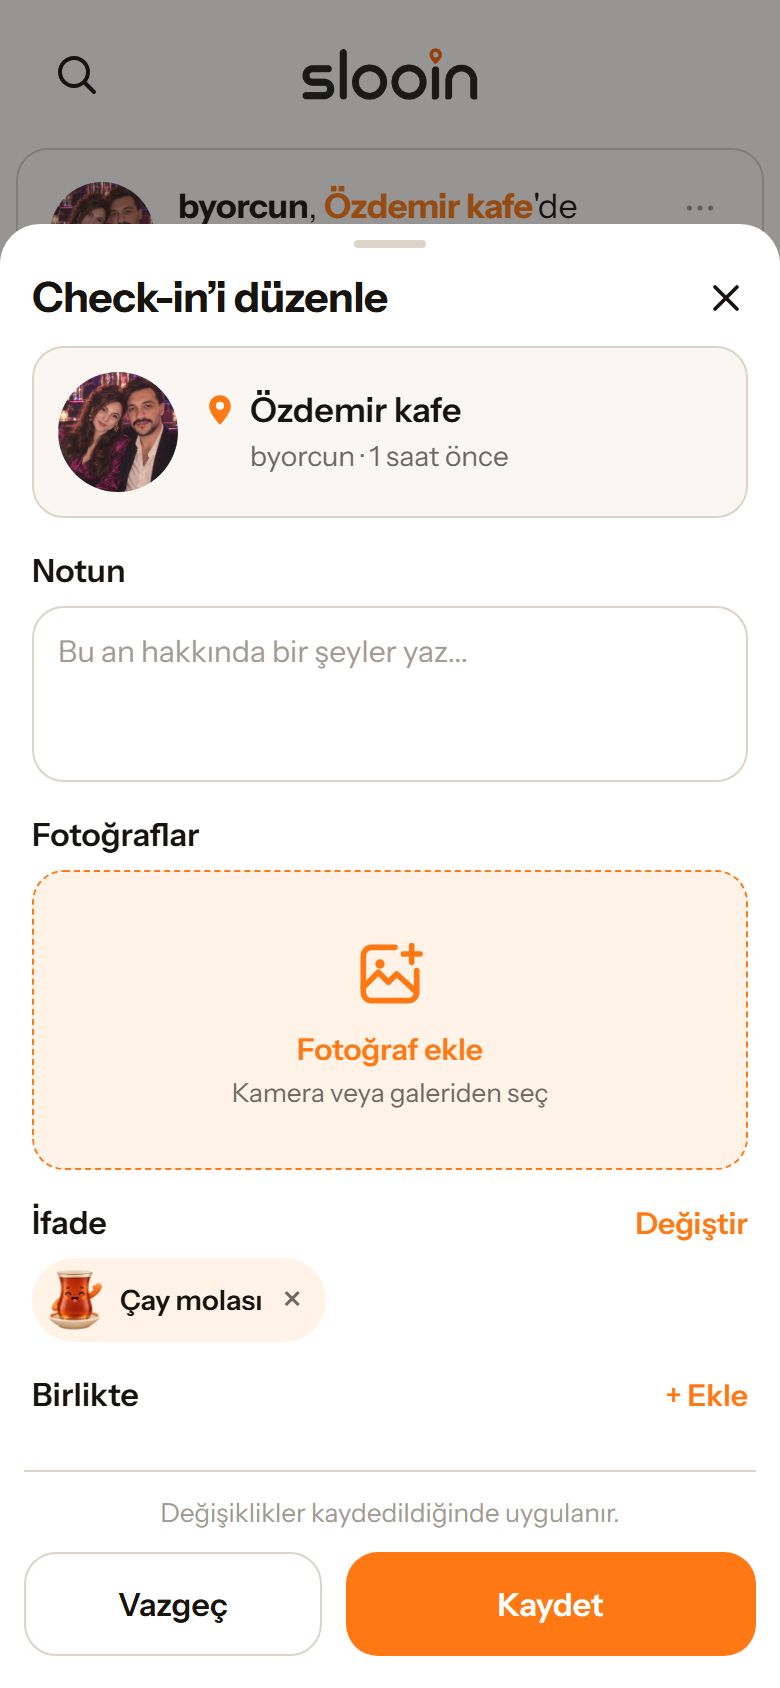
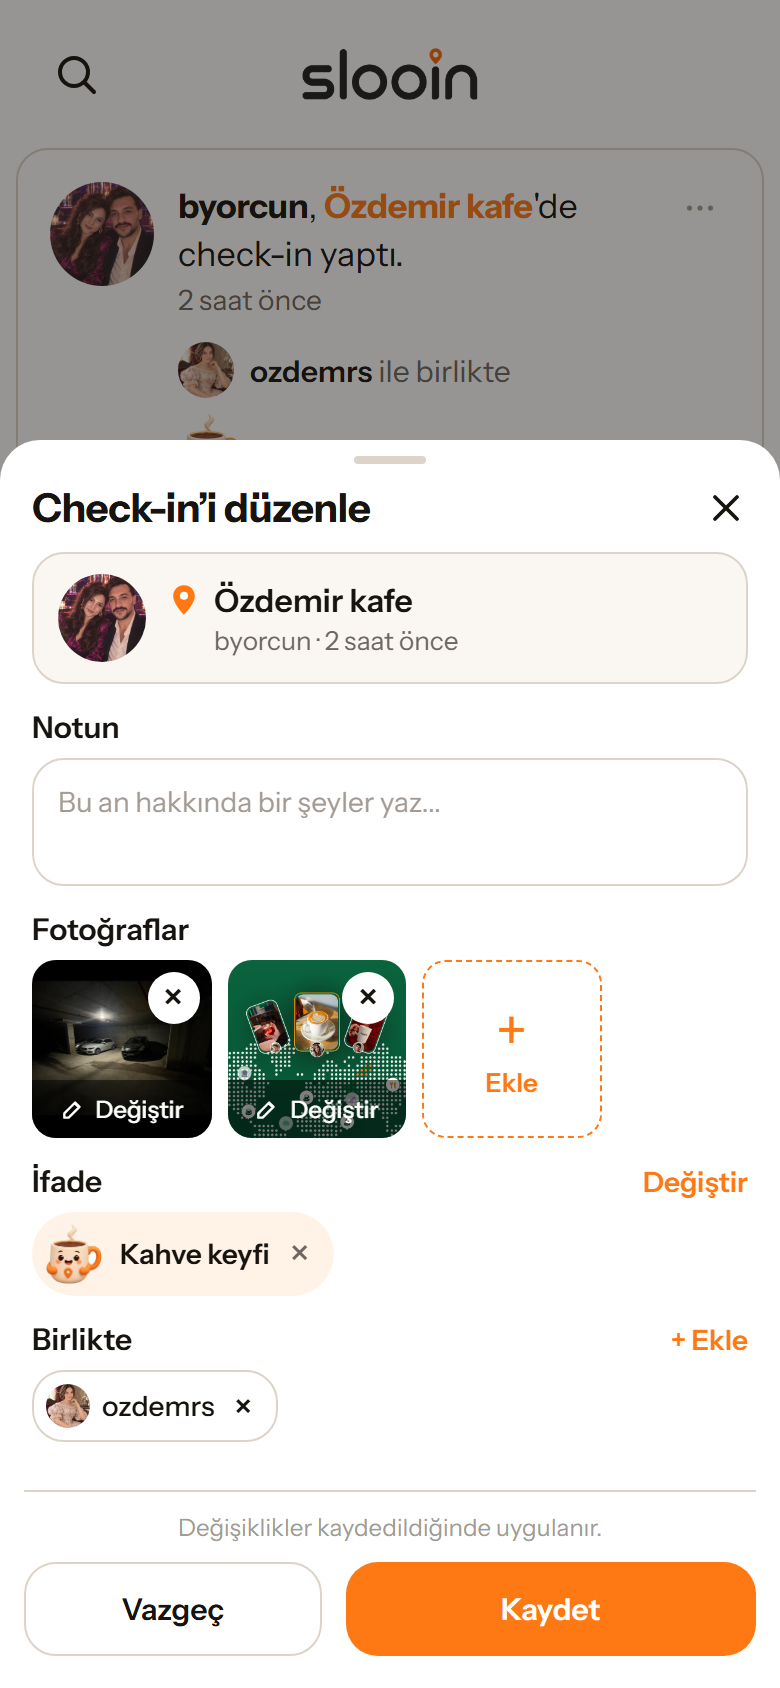
style(duzenle): secenek A - sikilastirilmis olculer, fotograf izgarasi 4 sutun
Claude-Session: https://claude.ai/code/session_016ctDoSwgG5vxXUSRypA7G5

diff --git a/tasarim/checkin-duzenle-daralt/secenekler.html b/tasarim/checkin-duzenle-daralt/secenekler.html
@@ -1,0 +1,151 @@
+<!doctype html>
+<html lang="tr"><head><meta charset="utf-8">
+<title>Check-in'i düzenle – daraltma seçenekleri</title>
+<link href="https://fonts.googleapis.com/css2?family=Instrument+Sans:wght@400;500;600;700&display=swap" rel="stylesheet">
+<style>
+  :root{--tur:#FE7813;--metin:#17130F;--ikincil:#6E6660;--soluk:#A39B93;--cizgi:#DCD3C9;--sef:#FFF3E8;--krem:#FAF7F3}
+  *{box-sizing:border-box}
+  body{margin:0;background:#ECE8E2;font-family:"Instrument Sans",system-ui,sans-serif;color:var(--metin);padding:28px 24px}
+  h1{font-size:22px;margin:0 0 6px}
+  .alt{color:var(--ikincil);font-size:14px;margin:0 0 22px}
+  .sira{display:flex;gap:26px;align-items:flex-start}
+  .kolon{width:390px;flex:none}
+  .etiketK{font-size:13px;font-weight:600;letter-spacing:.06em;text-transform:uppercase;color:var(--ikincil);margin:0 0 4px}
+  .aciklama{font-size:13px;color:var(--ikincil);margin:0 0 10px;min-height:54px;line-height:1.35}
+  .tel{width:390px;height:844px;background:#9a9691;border-radius:44px;position:relative;overflow:hidden;box-shadow:0 20px 40px rgba(0,0,0,.18)}
+  .sayfa{position:absolute;left:0;right:0;bottom:0;background:#fff;border-radius:22px 22px 0 0;padding:8px 16px 26px}
+  .tut{width:36px;height:4px;border-radius:2px;background:var(--cizgi);margin:0 auto 12px}
+  .bas{display:flex;justify-content:space-between;align-items:center;margin:0 4px}
+  .bas h2{font-size:22px;letter-spacing:-.3px;margin:0}
+  .x{font-size:22px;line-height:1}
+  .kart{display:flex;align-items:center;gap:14px;border:1px solid var(--cizgi);background:var(--krem);border-radius:16px;padding:14px;margin:14px 0 18px}
+  .av{width:60px;height:60px;border-radius:50%;background:linear-gradient(135deg,#7a2b5a,#2c1633);flex:none}
+  .av.k{width:34px;height:34px}
+  .mad{font-weight:700;font-size:17px;display:flex;gap:6px;align-items:center}
+  .pin{width:14px;height:14px;background:var(--tur);border-radius:50% 50% 50% 0;transform:rotate(-45deg);display:inline-block}
+  .malt{color:var(--ikincil);font-size:14px;margin-left:20px;margin-top:3px}
+  .lbl{font-weight:700;font-size:16px;margin:0 0 8px}
+  .not{border:1px solid var(--cizgi);border-radius:16px;padding:14px;color:var(--soluk);font-size:15px;margin-bottom:18px}
+  .izg{display:flex;gap:8px;margin-bottom:6px}
+  .kare{border-radius:12px;background:#333 center/cover;position:relative;overflow:hidden;flex:none}
+  .kare.a{background-image:linear-gradient(#111,#2a2a2a)}
+  .kare.b{background-image:linear-gradient(135deg,#0f5f4f,#1f8a6f)}
+  .kare .xs{position:absolute;top:6px;right:6px;width:22px;height:22px;border-radius:50%;background:#fff;color:#000;font-size:15px;line-height:22px;text-align:center}
+  .kare .dg{position:absolute;left:0;right:0;bottom:0;background:rgba(0,0,0,.5);color:#fff;font-size:12px;text-align:center;padding:5px 0}
+  .kare.ekle{border:1.5px dashed var(--tur);background:#fff;display:flex;flex-direction:column;align-items:center;justify-content:center;color:var(--tur);font-weight:700;font-size:13px}
+  .kare.ekle b{font-size:26px;font-weight:400;line-height:1}
+  .satir{display:flex;justify-content:space-between;align-items:center;margin-top:18px;margin-bottom:8px}
+  .link{color:var(--tur);font-weight:700;font-size:15px}
+  .cip{display:inline-flex;align-items:center;gap:8px;border:1px solid var(--cizgi);border-radius:16px;padding:8px 14px 8px 8px;font-weight:500;font-size:15px}
+  .cip.sef{background:var(--sef);border-color:transparent}
+  .cip .i{width:26px;height:26px;border-radius:50%;background:#e9c9a4}
+  .cip .k{opacity:.7;margin-left:4px}
+  .dip{border-top:1px solid var(--cizgi);margin-top:16px;padding-top:12px}
+  .dipnot{text-align:center;color:var(--soluk);font-size:13px;margin-bottom:12px}
+  .dug{display:flex;gap:14px}
+  .dug div{flex:1;border-radius:16px;text-align:center;padding:15px 0;font-weight:700;font-size:16px;border:1px solid var(--cizgi)}
+  .dug .k{flex:1.4;background:var(--tur);color:#fff;border-color:var(--tur)}
+  /* SIKI varyantlar */
+  .s .sayfa{padding:8px 16px 22px}
+  .s .tut{margin-bottom:10px}
+  .s .bas h2{font-size:20px}
+  .s .kart{padding:10px 12px;gap:10px;margin:10px 0 12px}
+  .s .mad{font-size:16px}
+  .s .malt{font-size:13px;margin-top:1px}
+  .s .lbl{font-size:15px;margin-bottom:6px}
+  .s .not{padding:12px;margin-bottom:12px;font-size:14px}
+  .s .satir{margin-top:12px;margin-bottom:6px}
+  .s .dip{margin-top:12px;padding-top:10px}
+  .s .dipnot{margin-bottom:10px;font-size:12px}
+  .s .dug div{padding:13px 0;font-size:15px}
+  .s .cip{padding:6px 12px 6px 6px;font-size:14px}
+  .s .cip .i{width:22px;height:22px}
+  /* tek satir mekan */
+  .mek1{display:flex;align-items:center;gap:10px;margin:10px 4px 12px;color:var(--ikincil);font-size:14px}
+  .mek1 b{color:var(--metin);font-size:15px}
+  /* ic etiket */
+  .icnot{position:relative}
+  .icnot .lbl{position:absolute;left:12px;top:8px;font-size:12px;color:var(--ikincil);margin:0;font-weight:600;text-transform:uppercase;letter-spacing:.05em}
+  .icnot .not{padding-top:28px}
+  .yanyana{display:flex;gap:10px;align-items:flex-start;margin-top:10px}
+  .yanyana>div{flex:1}
+  .yanyana .satir{margin-top:0}
+  .olcu{position:absolute;right:10px;top:12px;background:rgba(0,0,0,.55);color:#fff;font-size:11px;padding:3px 7px;border-radius:999px}
+</style></head><body>
+<h1>"Check-in'i düzenle" – daha dar sayfa için üç seçenek</h1>
+<p class="alt">Aynı içerik, aynı 390 px genişlik. Gri alan = sayfanın altında görünen arka plan (sayfa ne kadar kısaysa o kadar çok).</p>
+<div class="sira">
+
+<div class="kolon">
+  <p class="etiketK">Şimdiki hâli</p>
+  <p class="aciklama">Sayfa ekranın neredeyse tamamını kaplıyor (~760 px). Mekân kartı 60'lık avatarla yüksek, 3 sütun büyük kareler, her bölüm ayrı satır.</p>
+  <div class="tel"><div class="sayfa"><span class="olcu">~760 px</span>
+    <div class="tut"></div>
+    <div class="bas"><h2>Check-in’i düzenle</h2><span class="x">✕</span></div>
+    <div class="kart"><div class="av"></div><div><div class="mad"><span class="pin"></span>Özdemir kafe</div><div class="malt">byorcun · 2 saat önce</div></div></div>
+    <p class="lbl">Notun</p><div class="not" style="height:88px">Bu an hakkında bir şeyler yaz…</div>
+    <p class="lbl">Fotoğraflar</p>
+    <div class="izg"><div class="kare a" style="width:114px;height:114px"><span class="xs">✕</span><span class="dg">✎ Değiştir</span></div><div class="kare b" style="width:114px;height:114px"><span class="xs">✕</span><span class="dg">✎ Değiştir</span></div><div class="kare ekle" style="width:114px;height:114px"><b>+</b>Ekle</div></div>
+    <div class="satir"><span class="lbl" style="margin:0">İfade</span><span class="link">Değiştir</span></div>
+    <span class="cip sef"><span class="i"></span>Kahve keyfi<span class="k">✕</span></span>
+    <div class="satir"><span class="lbl" style="margin:0">Birlikte</span><span class="link">+ Ekle</span></div>
+    <span class="cip"><span class="i" style="background:#c9a4a4"></span>ozdemrs<span class="k">✕</span></span>
+    <div class="dip"><div class="dipnot">Değişiklikler kaydedildiğinde uygulanır.</div><div class="dug"><div>Vazgeç</div><div class="k">Kaydet</div></div></div>
+  </div></div>
+</div>
+
+<div class="kolon s">
+  <p class="etiketK">A · Sıkı boşluklar</p>
+  <p class="aciklama">Düzen aynı; dolgular ve yazılar bir kademe küçük, not kutusu 64 px, kareler 4 sütun (84 px). Kazanç ~130 px.</p>
+  <div class="tel"><div class="sayfa"><span class="olcu">~630 px</span>
+    <div class="tut"></div>
+    <div class="bas"><h2>Check-in’i düzenle</h2><span class="x">✕</span></div>
+    <div class="kart"><div class="av" style="width:44px;height:44px"></div><div><div class="mad"><span class="pin"></span>Özdemir kafe</div><div class="malt">byorcun · 2 saat önce</div></div></div>
+    <p class="lbl">Notun</p><div class="not" style="height:64px">Bu an hakkında bir şeyler yaz…</div>
+    <p class="lbl">Fotoğraflar</p>
+    <div class="izg"><div class="kare a" style="width:84px;height:84px"><span class="xs">✕</span><span class="dg">✎</span></div><div class="kare b" style="width:84px;height:84px"><span class="xs">✕</span><span class="dg">✎</span></div><div class="kare ekle" style="width:84px;height:84px"><b>+</b>Ekle</div></div>
+    <div class="satir"><span class="lbl" style="margin:0">İfade</span><span class="link">Değiştir</span></div>
+    <span class="cip sef"><span class="i"></span>Kahve keyfi<span class="k">✕</span></span>
+    <div class="satir"><span class="lbl" style="margin:0">Birlikte</span><span class="link">+ Ekle</span></div>
+    <span class="cip"><span class="i" style="background:#c9a4a4"></span>ozdemrs<span class="k">✕</span></span>
+    <div class="dip"><div class="dipnot">Değişiklikler kaydedildiğinde uygulanır.</div><div class="dug"><div>Vazgeç</div><div class="k">Kaydet</div></div></div>
+  </div></div>
+</div>
+
+<div class="kolon s">
+  <p class="etiketK">B · Tek satır mekân + yan yana bölümler (önerim)</p>
+  <p class="aciklama">Mekân kartı yerine başlığın altında tek satır (küçük avatar · mekân · zaman). İfade ve Birlikte yan yana iki sütun. Kazanç ~230 px.</p>
+  <div class="tel"><div class="sayfa"><span class="olcu">~530 px</span>
+    <div class="tut"></div>
+    <div class="bas"><h2>Check-in’i düzenle</h2><span class="x">✕</span></div>
+    <div class="mek1"><div class="av k"></div><span><b><span class="pin" style="width:11px;height:11px"></span> Özdemir kafe</b> · byorcun · 2 saat önce</span></div>
+    <p class="lbl">Notun</p><div class="not" style="height:64px">Bu an hakkında bir şeyler yaz…</div>
+    <p class="lbl">Fotoğraflar</p>
+    <div class="izg"><div class="kare a" style="width:84px;height:84px"><span class="xs">✕</span><span class="dg">✎</span></div><div class="kare b" style="width:84px;height:84px"><span class="xs">✕</span><span class="dg">✎</span></div><div class="kare ekle" style="width:84px;height:84px"><b>+</b>Ekle</div></div>
+    <div class="yanyana">
+      <div><div class="satir"><span class="lbl" style="margin:0">İfade</span><span class="link">Değiştir</span></div><span class="cip sef"><span class="i"></span>Kahve keyfi<span class="k">✕</span></span></div>
+      <div><div class="satir"><span class="lbl" style="margin:0">Birlikte</span><span class="link">+ Ekle</span></div><span class="cip"><span class="i" style="background:#c9a4a4"></span>ozdemrs<span class="k">✕</span></span></div>
+    </div>
+    <div class="dip"><div class="dipnot">Değişiklikler kaydedildiğinde uygulanır.</div><div class="dug"><div>Vazgeç</div><div class="k">Kaydet</div></div></div>
+  </div></div>
+</div>
+
+<div class="kolon s">
+  <p class="etiketK">C · En sıkı</p>
+  <p class="aciklama">B'ye ek: etiketler kutuların içine küçük başlık olarak girdi, fotoğraf kareleri 72 px (4 sütun + Ekle), dip not kalktı. Kazanç ~290 px; en yoğun görünüm.</p>
+  <div class="tel"><div class="sayfa"><span class="olcu">~470 px</span>
+    <div class="tut"></div>
+    <div class="bas"><h2>Check-in’i düzenle</h2><span class="x">✕</span></div>
+    <div class="mek1"><div class="av k"></div><span><b><span class="pin" style="width:11px;height:11px"></span> Özdemir kafe</b> · byorcun · 2 saat önce</span></div>
+    <div class="icnot"><p class="lbl">Notun</p><div class="not" style="height:72px">Bu an hakkında bir şeyler yaz…</div></div>
+    <div class="izg"><div class="kare a" style="width:72px;height:72px"><span class="xs">✕</span></div><div class="kare b" style="width:72px;height:72px"><span class="xs">✕</span></div><div class="kare ekle" style="width:72px;height:72px"><b>+</b></div></div>
+    <div class="yanyana">
+      <div><div class="satir"><span class="lbl" style="margin:0">İfade</span><span class="link">Değiştir</span></div><span class="cip sef"><span class="i"></span>Kahve keyfi<span class="k">✕</span></span></div>
+      <div><div class="satir"><span class="lbl" style="margin:0">Birlikte</span><span class="link">+ Ekle</span></div><span class="cip"><span class="i" style="background:#c9a4a4"></span>ozdemrs<span class="k">✕</span></span></div>
+    </div>
+    <div class="dip"><div class="dug"><div>Vazgeç</div><div class="k">Kaydet</div></div></div>
+  </div></div>
+</div>
+
+</div>
+</body></html>

diff --git a/mobil/src/tasarim/CheckInDuzenle.tsx b/mobil/src/tasarim/CheckInDuzenle.tsx
@@ -177,7 +177,7 @@ export function CheckInDuzenle({
           >
             {/* MEKAN KARTI: avatar, igne + mekan adi, kullanici adi · zaman. */}
             <View style={stiller.mekanKarti}>
-              <Avatar fotografUrl={mevcut.avatarUrl} ad={mevcut.kullaniciAdi} kullaniciAdi={gosterilenAd} cap={60} />
+              <Avatar fotografUrl={mevcut.avatarUrl} ad={mevcut.kullaniciAdi} kullaniciAdi={gosterilenAd} cap={44} />
               <View style={stiller.mekanMetinler}>
                 <View style={stiller.mekanAdSatiri}>
                   <IgneIkonu boyut={18} />
@@ -209,6 +209,7 @@ export function CheckInDuzenle({
             <Text style={stiller.etiket}>{t('checkIn.fotograflar')}</Text>
             <FotografIzgarasiDuzenle
               testID="duzenle-foto"
+              sutun={4}
               kareler={kareler}
               pasif={kaydediliyor}
               onEklendi={(uriler) => {
@@ -262,7 +263,7 @@ export function CheckInDuzenle({
               <View style={stiller.cipler}>
                 {kalanEtiketler.map((e) => (
                   <View key={e.kullaniciId} style={stiller.cip} testID={`duzenle-etiket-${e.kullaniciId}`}>
-                    <Avatar fotografUrl={e.avatarUrl} ad={e.ad} kullaniciAdi={e.kullaniciAdi ?? e.ad ?? ''} cap={26} />
+                    <Avatar fotografUrl={e.avatarUrl} ad={e.ad} kullaniciAdi={e.kullaniciAdi ?? e.ad ?? ''} cap={22} />
                     <Text style={stiller.cipYazi}>{e.kullaniciAdi ?? e.ad ?? ''}</Text>
                     <Pressable
                       onPress={() => setKaldirilan((m) => [...m, e.kullaniciId])}
@@ -280,7 +281,7 @@ export function CheckInDuzenle({
                   const kisi = arkadaslar.find((a) => a.id === id)
                   return (
                     <View key={id} style={stiller.cip} testID={`duzenle-etiket-${id}`}>
-                      <Avatar fotografUrl={kisi?.avatarUrl ?? null} ad={kisi?.ad} kullaniciAdi={kisi?.kullaniciAdi ?? ''} cap={26} />
+                      <Avatar fotografUrl={kisi?.avatarUrl ?? null} ad={kisi?.ad} kullaniciAdi={kisi?.kullaniciAdi ?? ''} cap={22} />
                       <Text style={stiller.cipYazi}>{kisi?.kullaniciAdi ?? ''}</Text>
                       <Pressable
                         onPress={() => setEklenen((m) => m.filter((x) => x !== id))}
@@ -343,6 +344,10 @@ export function CheckInDuzenle({
   )
 }
 
+// OLCULER SECENEK A (kullanicinin secimi 2026-09-22, "biraz daha
+// daraltalim"): duzen ayni, dolgular ve yazilar bir kademe kucuk, not
+// kutusu 64, kareler 4 sutun. Sayfa ~760 -> ~630 px
+// (tasarim/checkin-duzenle-daralt/secenekler.png).
 const stilleriYap = (renk: Renk) =>
   StyleSheet.create({
     zeminRenk: { position: 'absolute', top: 0, left: 0, right: 0, bottom: 0, backgroundColor: 'rgba(23, 19, 15, 0.45)' },
@@ -356,67 +361,68 @@ const stilleriYap = (renk: Renk) =>
       paddingHorizontal: bosluk.m,
       maxHeight: '92%',
     },
-    tutamac: { alignSelf: 'center', width: 36, height: 4, borderRadius: 2, backgroundColor: renk.cizgi, marginBottom: bosluk.m },
-    baslikSatiri: { flexDirection: 'row', alignItems: 'center', justifyContent: 'space-between', marginBottom: bosluk.m, marginHorizontal: bosluk.xs },
-    baslik: { fontFamily: yazi.ekranBasligi, fontSize: olcek.altBaslik + 2, letterSpacing: -0.3, color: renk.metin },
+    tutamac: { alignSelf: 'center', width: 36, height: 4, borderRadius: 2, backgroundColor: renk.cizgi, marginBottom: 10 },
+    baslikSatiri: { flexDirection: 'row', alignItems: 'center', justifyContent: 'space-between', marginBottom: 10, marginHorizontal: bosluk.xs },
+    baslik: { fontFamily: yazi.ekranBasligi, fontSize: olcek.altBaslik + 1, letterSpacing: -0.3, color: renk.metin },
     kaydirma: { flexShrink: 1 },
     icerik: { paddingHorizontal: bosluk.xs, paddingBottom: bosluk.m },
     // Mekan karti: cerceveli, seftali zeminsiz (referans: acik gri kart).
     mekanKarti: {
       flexDirection: 'row',
       alignItems: 'center',
-      gap: bosluk.m,
-      padding: bosluk.m,
+      gap: 10,
+      paddingVertical: 10,
+      paddingHorizontal: 12,
       borderRadius: yuvarlak.kart,
       borderWidth: 1,
       borderColor: renk.cizgi,
       backgroundColor: renk.karsilamaZemini,
-      marginBottom: bosluk.l,
+      marginBottom: 12,
     },
-    mekanMetinler: { flex: 1, gap: 4 },
+    mekanMetinler: { flex: 1, gap: 2 },
     mekanAdSatiri: { flexDirection: 'row', alignItems: 'center', gap: 6 },
-    mekanAdi: { flex: 1, fontFamily: yazi.govdeKalin, fontSize: olcek.govde + 2, color: renk.metin },
-    mekanAlt: { fontFamily: yazi.govde, fontSize: olcek.kucuk + 1, color: renk.metinIkincil, marginLeft: 24 },
-    etiket: { fontFamily: yazi.govdeKalin, fontSize: olcek.govde + 1, color: renk.metin, marginBottom: bosluk.s },
-    etiketSatirIci: { fontFamily: yazi.govdeKalin, fontSize: olcek.govde + 1, color: renk.metin },
+    mekanAdi: { flex: 1, fontFamily: yazi.govdeKalin, fontSize: olcek.govde + 1, color: renk.metin },
+    mekanAlt: { fontFamily: yazi.govde, fontSize: olcek.kucuk, color: renk.metinIkincil, marginLeft: 24 },
+    etiket: { fontFamily: yazi.govdeKalin, fontSize: olcek.govde, color: renk.metin, marginBottom: 6 },
+    etiketSatirIci: { fontFamily: yazi.govdeKalin, fontSize: olcek.govde, color: renk.metin },
     notKutusu: {
-      minHeight: 88,
+      minHeight: 64,
       borderWidth: 1,
       borderColor: renk.cizgi,
       borderRadius: yuvarlak.kart,
-      padding: bosluk.m,
+      padding: 12,
       fontFamily: yazi.govde,
-      fontSize: olcek.govde,
+      fontSize: olcek.kucuk + 1,
       color: renk.metin,
       textAlignVertical: 'top',
       backgroundColor: renk.yuzey,
-      marginBottom: bosluk.l,
+      marginBottom: 12,
     },
-    bolumBaslik: { flexDirection: 'row', alignItems: 'center', justifyContent: 'space-between', marginTop: bosluk.l, marginBottom: bosluk.s },
-    baglanti: { fontFamily: yazi.govdeKalin, fontSize: olcek.govde, color: renk.turuncuYazi },
+    bolumBaslik: { flexDirection: 'row', alignItems: 'center', justifyContent: 'space-between', marginTop: 12, marginBottom: 6 },
+    baglanti: { fontFamily: yazi.govdeKalin, fontSize: olcek.kucuk + 1, color: renk.turuncuYazi },
     cipler: { flexDirection: 'row', flexWrap: 'wrap', gap: bosluk.s },
     cip: {
       flexDirection: 'row',
       alignItems: 'center',
-      gap: bosluk.s,
-      paddingVertical: 8,
-      paddingLeft: 8,
-      paddingRight: bosluk.m,
+      gap: 6,
+      paddingVertical: 6,
+      paddingLeft: 6,
+      paddingRight: 12,
       borderRadius: yuvarlak.kart,
       borderWidth: 1,
       borderColor: renk.cizgi,
       backgroundColor: renk.yuzey,
     },
-    cipYazi: { fontFamily: yazi.govdeOrta, fontSize: olcek.govde, color: renk.metin },
-    cipCarpi: { fontFamily: yazi.govdeKalin, fontSize: olcek.govde + 2, color: renk.metin, marginLeft: 4 },
-    altBolum: { borderTopWidth: 1, borderTopColor: renk.cizgi, paddingTop: bosluk.m, marginTop: bosluk.s },
-    altNot: { fontFamily: yazi.govde, fontSize: olcek.kucuk, color: renk.metinSoluk, textAlign: 'center', marginBottom: bosluk.m },
+    cipYazi: { fontFamily: yazi.govdeOrta, fontSize: olcek.kucuk + 1, color: renk.metin },
+    cipCarpi: { fontFamily: yazi.govdeKalin, fontSize: olcek.govde + 1, color: renk.metin, marginLeft: 4 },
+    altBolum: { borderTopWidth: 1, borderTopColor: renk.cizgi, paddingTop: 10, marginTop: 12 },
+    altNot: { fontFamily: yazi.govde, fontSize: olcek.kucuk - 1, color: renk.metinSoluk, textAlign: 'center', marginBottom: 10 },
     hata: { fontFamily: yazi.govdeOrta, fontSize: olcek.kucuk, color: renk.yikici, textAlign: 'center', marginBottom: bosluk.s },
-    eylemler: { flexDirection: 'row', gap: bosluk.m },
-    dugme: { flex: 1, alignItems: 'center', justifyContent: 'center', paddingVertical: 15, borderRadius: yuvarlak.kart },
+    eylemler: { flexDirection: 'row', gap: 12 },
+    dugme: { flex: 1, alignItems: 'center', justifyContent: 'center', paddingVertical: 13, borderRadius: yuvarlak.kart },
     ikincil: { borderWidth: 1, borderColor: renk.cizgi, backgroundColor: renk.yuzey },
-    ikincilYazi: { fontFamily: yazi.govdeKalin, fontSize: olcek.govde + 1, color: renk.metin },
+    ikincilYazi: { fontFamily: yazi.govdeKalin, fontSize: olcek.govde, color: renk.metin },
     birincil: { flex: 1.4, backgroundColor: renk.turuncu },
-    birincilYazi: { fontFamily: yazi.govdeKalin, fontSize: olcek.govde + 1, color: '#FFFFFF' },
+    birincilYazi: { fontFamily: yazi.govdeKalin, fontSize: olcek.govde, color: '#FFFFFF' },
     basili: { opacity: 0.7 },
   })

diff --git a/mobil/src/tasarim/FotografIzgarasiDuzenle.tsx b/mobil/src/tasarim/FotografIzgarasiDuzenle.tsx
@@ -31,6 +31,7 @@ export function FotografIzgarasiDuzenle({
   onKaldir,
   onHata,
   pasif = false,
+  sutun = 3,
   testID = 'foto',
 }: {
   kareler: FotografKaresi[]
@@ -42,6 +43,8 @@ export function FotografIzgarasiDuzenle({
   /** Izin reddi gibi kullaniciya gosterilecek hatalar. */
   onHata?: (mesaj: string) => void
   pasif?: boolean
+  /** Satirdaki kare sayisi (form 3, duzenleme sayfasi 4 - secenek A). */
+  sutun?: number
   /** `${testID}-ekle`, `${testID}-<i>`, `${testID}-kaldir-<i>`, `${testID}-degistir-<i>`. */
   testID?: string
 }) {
@@ -52,6 +55,12 @@ export function FotografIzgarasiDuzenle({
   const [kaynakIcin, setKaynakIcin] = useState<number | null>(null)
 
   const kalanYer = Math.max(0, EN_FAZLA_FOTOGRAF - kareler.length)
+  // Kare eni: satir, aradaki 8 px bosluklar dusulerek `sutun`a bolunur
+  // (yuzdeyle: bosluk basina ~%2,4).
+  const kareEni = {
+    flexBasis: `${(100 - (sutun - 1) * 2.4) / sutun}%` as `${number}%`,
+    maxWidth: `${100 / sutun}%` as `${number}%`,
+  }
 
   async function kameradanCek() {
     const hedef = kaynakIcin
@@ -102,7 +111,7 @@ export function FotografIzgarasiDuzenle({
       ) : (
         <View style={stiller.izgara}>
           {kareler.map((kare, i) => (
-            <View key={`${i}-${kare.uri}`} style={stiller.kare} testID={`${testID}-${i}`}>
+            <View key={`${i}-${kare.uri}`} style={[stiller.kare, kareEni]} testID={`${testID}-${i}`}>
               <HizliImage source={{ uri: kare.uri }} style={stiller.kareFoto} contentFit="cover" />
               <Pressable
                 style={stiller.kaldir}
@@ -129,7 +138,7 @@ export function FotografIzgarasiDuzenle({
           ))}
           {kalanYer > 0 && (
             <Pressable
-              style={({ pressed }) => [stiller.kare, stiller.ekleKare, pressed && stiller.basili]}
+              style={({ pressed }) => [stiller.kare, kareEni, stiller.ekleKare, pressed && stiller.basili]}
               onPress={() => setKaynakIcin(-1)}
               disabled={pasif}
               accessibilityRole="button"
@@ -205,11 +214,9 @@ const stilleriYap = (renk: Renk) =>
     bosAlt: { fontFamily: yazi.govde, fontSize: olcek.kucuk, color: renk.metinIkincil },
     basili: { opacity: 0.85 },
     izgara: { flexDirection: 'row', flexWrap: 'wrap', gap: bosluk.s },
-    // Uc sutun: (100% - 2 bosluk) / 3; yuzdeyle sarmak icin flexBasis.
+    // Eni `kareEni` verir (sutun sayisina gore); burada yalnizca bicim.
     kare: {
-      width: '31%',
       flexGrow: 1,
-      maxWidth: '32%',
       aspectRatio: 1,
       borderRadius: 12,
       overflow: 'hidden',
@@ -240,7 +247,7 @@ const stilleriYap = (renk: Renk) =>
       paddingVertical: 7,
       backgroundColor: 'rgba(0,0,0,0.5)',
     },
-    degistirYazi: { fontFamily: yazi.govdeOrta, fontSize: olcek.kucuk, color: '#FFFFFF' },
+    degistirYazi: { fontFamily: yazi.govdeOrta, fontSize: olcek.kucuk - 1, color: '#FFFFFF' },
     ekleKare: {
       alignItems: 'center',
       justifyContent: 'center',

diff --git a/CLAUDE.md b/CLAUDE.md
@@ -1014,6 +1014,14 @@ Jest 77 paket / 1025 test. Yayin: web guncel, OTA grup
   `maxPointers(1)` (iki parmak yakinlastirmada kalir), `failOffsetX
   [-12,12]` (yatay sayfa kaydirmasi FlatList'te). Test
   `__tests__/tasarim/FotografGezgini.test.tsx` (5). OTA `5d6f0e5a`.
+- **CheckInDuzenle SECENEK A (kullanicinin secimi, "biraz daha
+  daraltalim"):** uc secenek gorsel sunuldu
+  (`tasarim/checkin-duzenle-daralt/secenekler.png`: A siki bosluklar,
+  B tek satir mekan + yan yana bolumler, C en siki); **A secildi**:
+  duzen ayni, avatar 44, not kutusu 64, dolgular/yazilar bir kademe
+  kucuk, fotograf izgarasi 4 sutun (`FotografIzgarasiDuzenle` yeni
+  `sutun` prop'u; form 3'te kaldi). Olculdu: ~760 -> ~625 px
+  (`tasarim/checkin-duzenle.png`). OTA asagida.
 - **CheckInDuzenle klavye:** `KeyboardAvoidingView` KALKTI (kullanici:
   "klavye acilinca Vazgec/Kaydet ustune gelmesin, asagida kalsin");
   ScrollView `automaticallyAdjustKeyboardInsets` - icerik klavye kadar
